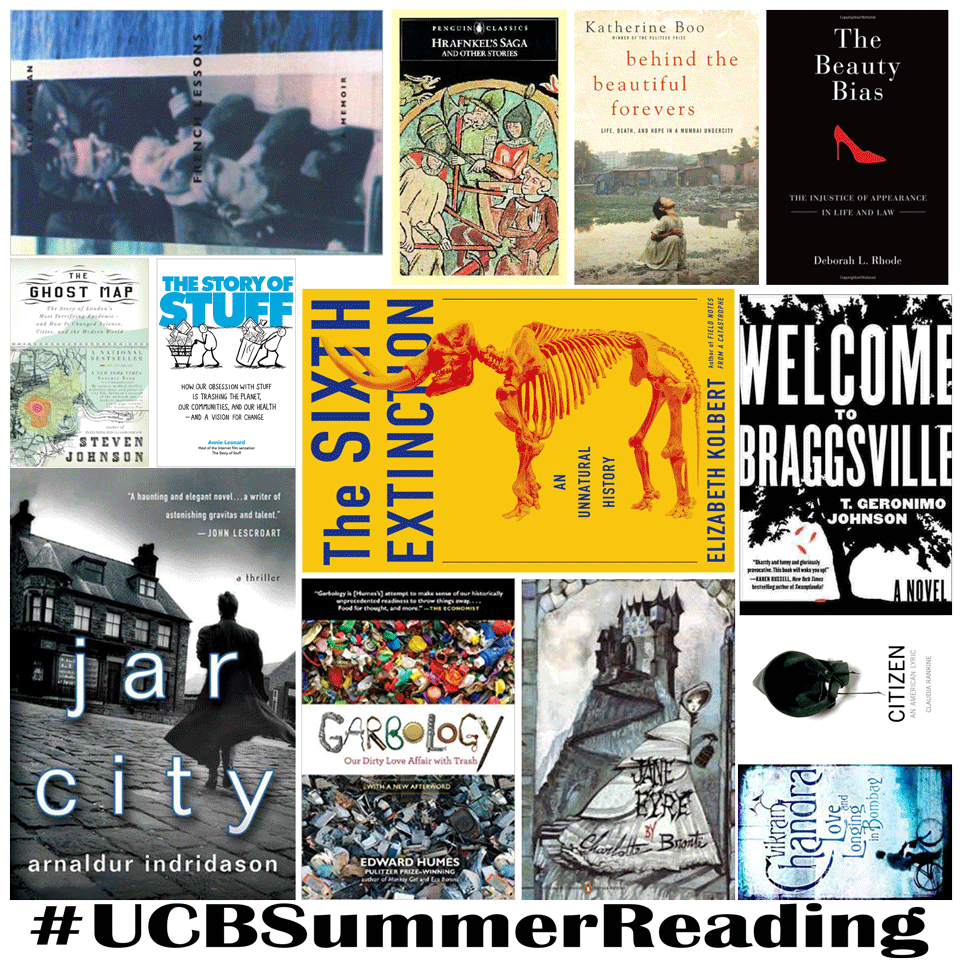
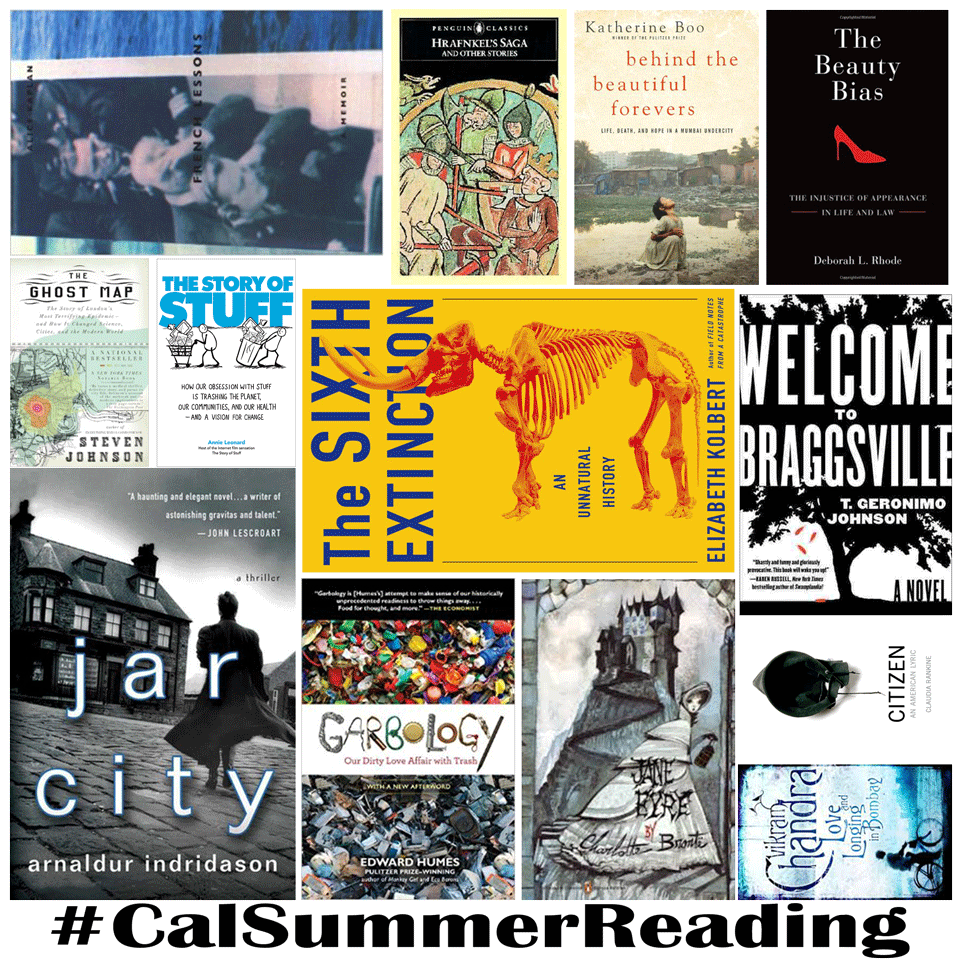
Added PLOS Image and Changed Hashtag

Changed region(s): [[0.0312, 0.9375, 0.9688, 1.0]]

diff --git a/bookList/main.html b/bookList/main.html
@@ -52,7 +52,7 @@
                 <p>Welcome to Berkeley!</p>
                 <p class="signed">TIM DILWORTH<br>First Year Coordinator<br>UC Berkeley Library<br></p>
                 <p class="signed">MICHAEL LARKIN<br>Lecturer<br>College Writing Programs</p>
-                <h4>#UCBSummerReading</h4>
+                <h4>#CalSummerReading</h4>
             </div>
         </div>
         <div class="row section book-row" id="list2015">
@@ -145,7 +145,7 @@
             </div>
             <div class="col-sm-4">
                 <div class="thumbnail">
-                    <img src="images/2015list/blank_cover.png" alt="Blank cover image">
+                    <img src="images/2015list/plos_medicine.png" alt="PLOS Medicine cover image">
                     <div class="caption">
                         <article>
                             <h4><a href="http://journals.plos.org/plosmedicine/article?id=10.1371/journal.pmed.0020124">

diff --git a/bookList/index.html b/bookList/index.html
@@ -52,7 +52,7 @@
                 <p>Welcome to Berkeley!</p>
                 <p class="signed">TIM DILWORTH<br>First Year Coordinator<br>UC Berkeley Library<br></p>
                 <p class="signed">MICHAEL LARKIN<br>Lecturer<br>College Writing Programs</p>
-                <h4>#UCBSummerReading</h4>
+                <h4>#CalSummerReading</h4>
                 <hr>
             </div>
         </div>
@@ -146,7 +146,7 @@
             </div>
             <div class="col-sm-4">
                 <div class="thumbnail">
-                    <img src="images/2015list/blank_cover.png" alt="Blank cover image">
+                    <img src="images/2015list/plos_medicine.png" alt="PLOS Medicine cover image">
                     <div class="caption">
                         <article>
                             <h4><a href="http://journals.plos.org/plosmedicine/article?id=10.1371/journal.pmed.0020124">
